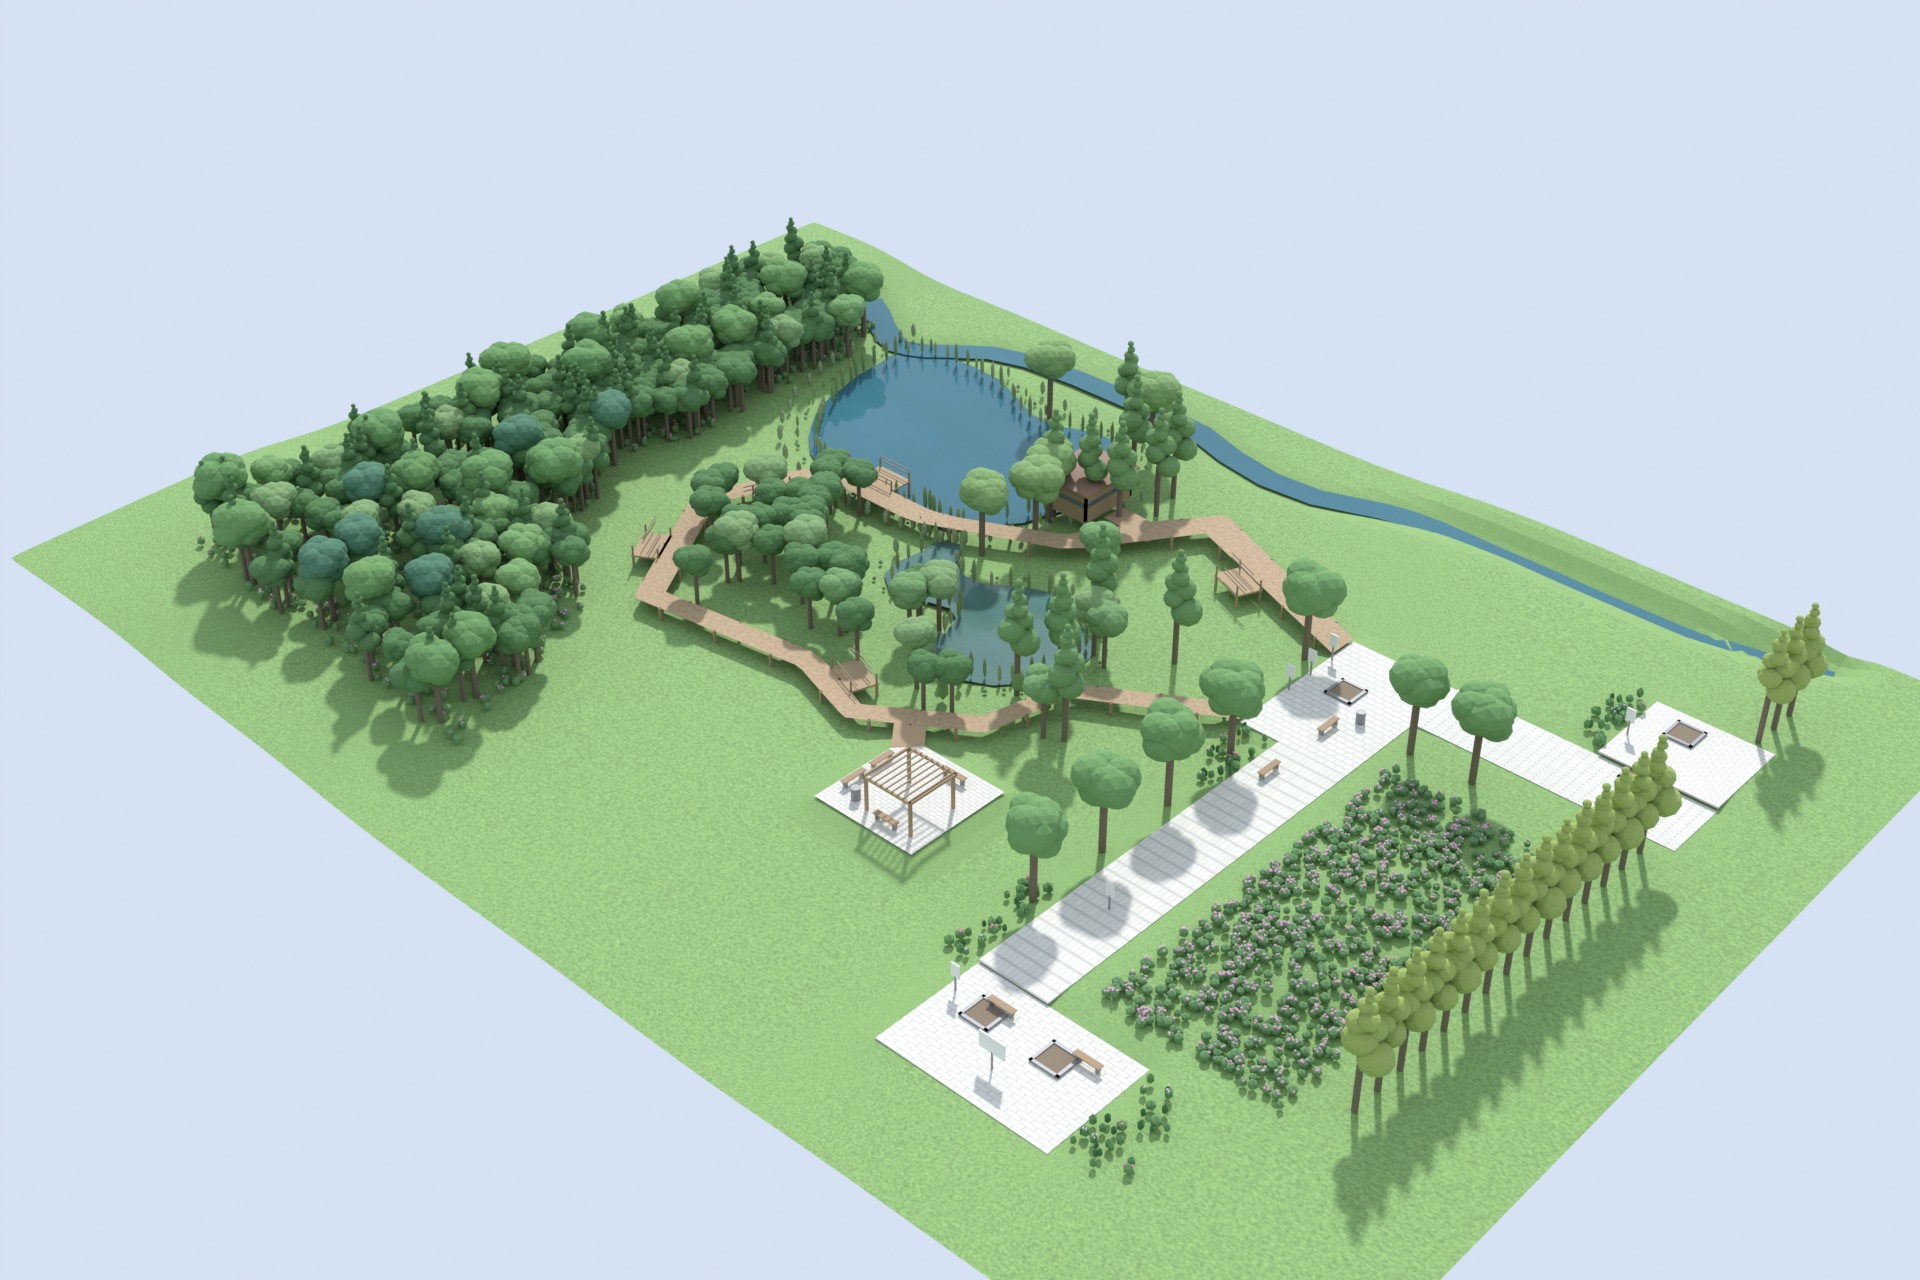
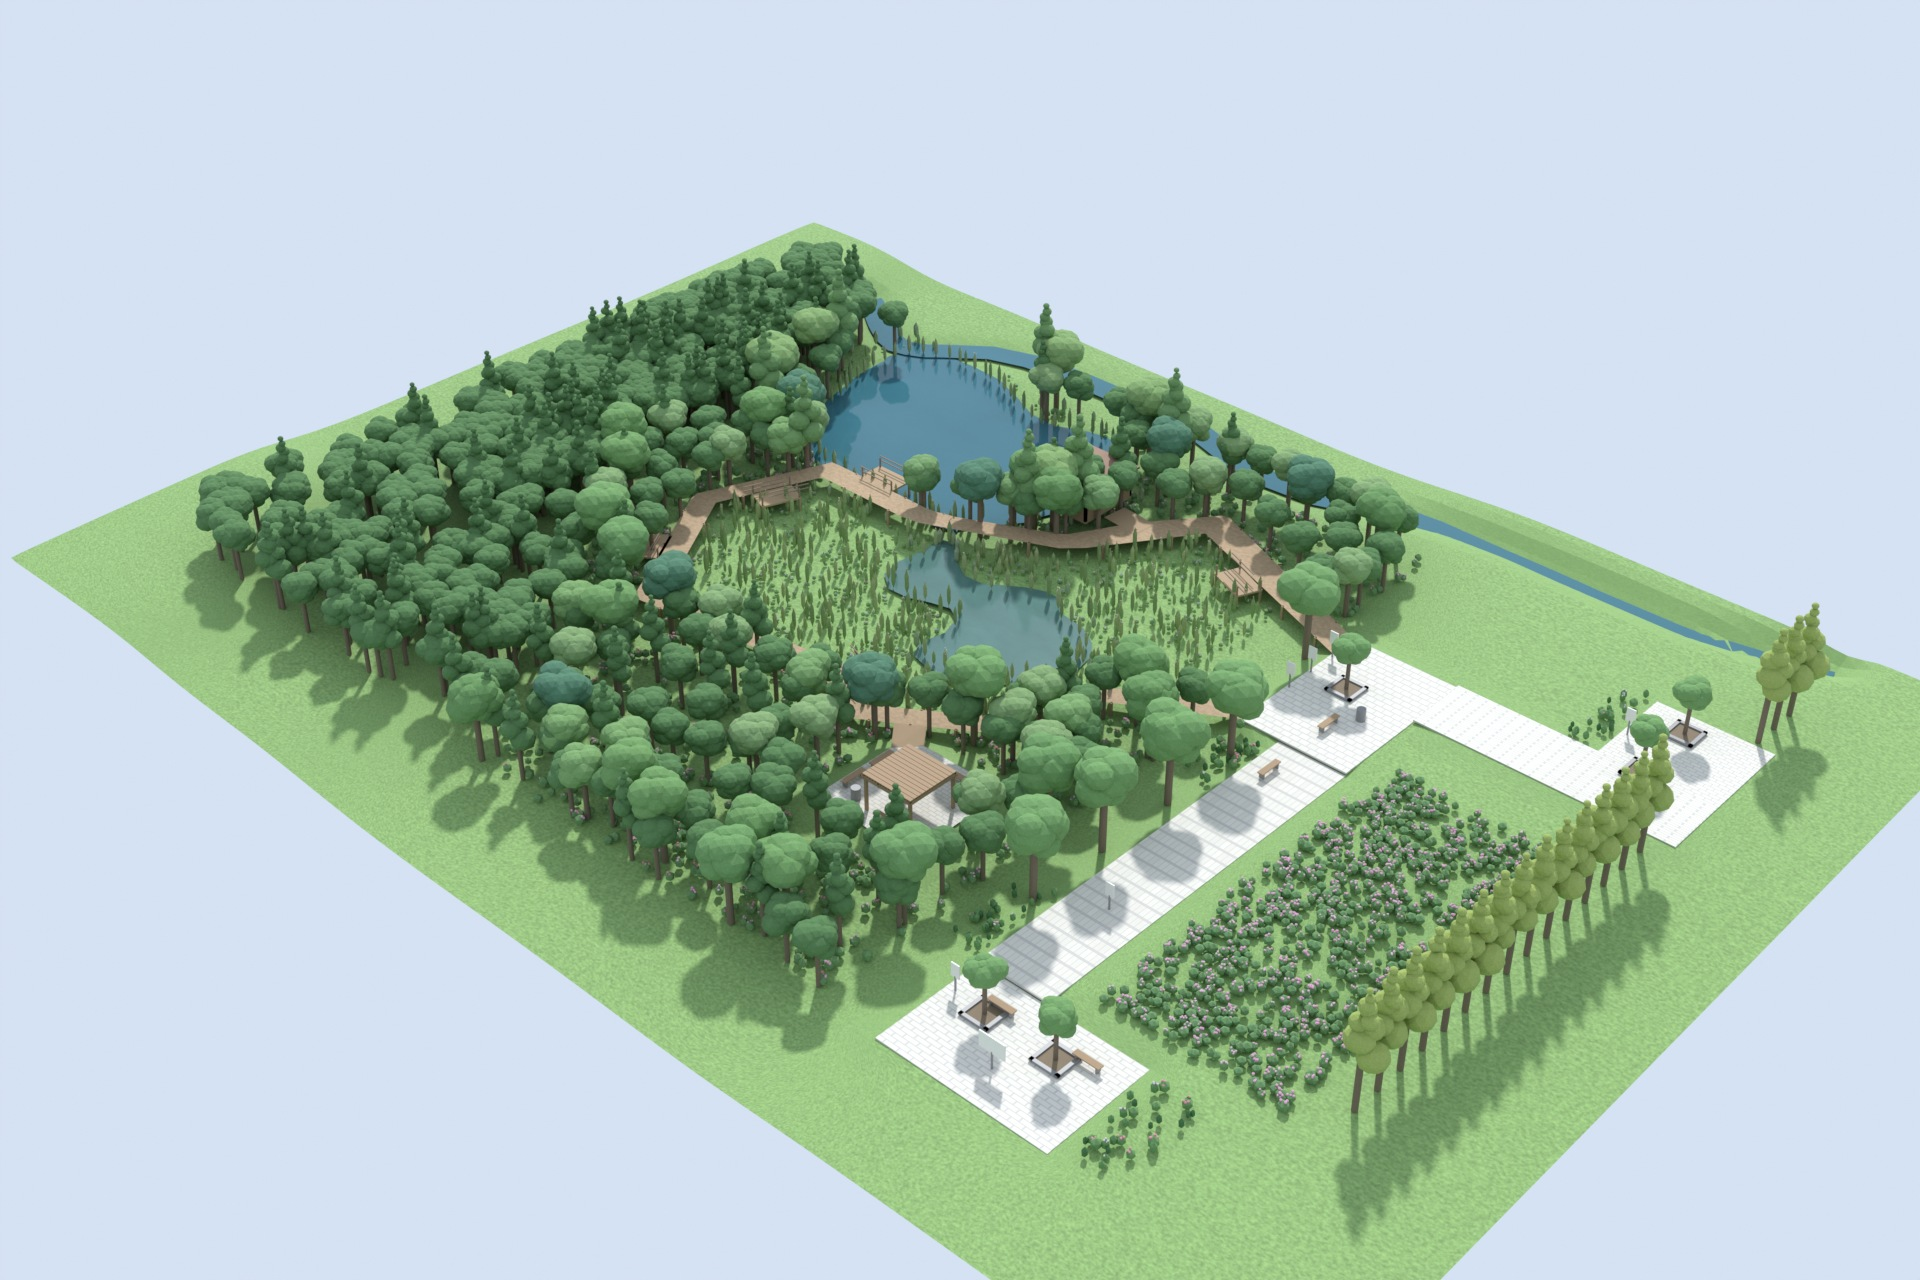
401 탭 — 구역·시설물을 고친 모형으로 갱신
습지지구(루프 안)는 초본류만, 산림지구(루프 바깥)에 교목·관목.
수목보호대에 느티나무를 심되 사각 틀이 보이게 수관을 줄였고,
퍼걸러 지붕을 판재로 바꿔 그늘을 만들었다. 실사 조감도도 다시 만들었다.

축측도 27분 27초 · 평면도 16분 38초 · 조감도 4분 4초.

Changed region(s): [[0.0938, 0.1875, 0.9062, 0.9375]]

diff --git a/_ls_drawing_refs/401_입체평면도/content.md b/_ls_drawing_refs/401_입체평면도/content.md
@@ -277,3 +277,31 @@
 - 보행로(소형고압블럭포장) 위에 관목을 심어 두었습니다. **도면의 빗금을 식재지로 잘못
   읽은 것**인데, 바로 옆에 '소형고압블럭포장'이라 적혀 있습니다. 걷어냈습니다
 
+### 식재 구역은 도면 라벨 자리로 잡습니다
+
+처음에 **구역을 거꾸로** 잡았습니다. 도면의 라벨 자리를 재면 이렇습니다.
+
+| 라벨 | 자리 |
+| --- | --- |
+| 기존수림 | 서쪽 |
+| 저수지구 | 북쪽 못 |
+| **습지지구** | **관찰로 루프 안** |
+| **산림지구** | **루프 바깥 남쪽** |
+
+즉 **루프 안은 초본류(갈대·부들·골풀·꽃창포·부처꽃)만**이고, 교목과 관목은
+**루프 바깥**에 들어갑니다. 반대로 심어 놓으면 "습지에 나무가 자라고 산림지구가 빈
+잔디"가 되어 설계 의도가 뒤집힙니다.
+
+### 시설물에서 고친 것 셋
+
+- **수목보호대에는 느티나무를 심습니다.** 빈 구멍이 아니라 녹음수를 담는 시설입니다.
+  다만 느티나무를 제 크기(수관 반지름 2.3m)로 두면 2×2m 틀을 통째로 덮어 **사각 틀이
+  안 보입니다.** 틀 모서리는 중심에서 1.41m 이므로 수관을 그보다 작게 줍니다
+- **휴게공간은 북서 모서리가 45° 로 잘린 오각형**이고, 그 잘린 변에서 관찰로로
+  2m 폭 **사선 진입로(데크)** 가 나갑니다
+- **퍼걸러 지붕은 판재**입니다. 살대만 깔면 햇빛이 다 새어 그늘이 안 집니다 —
+  0.45m 간격 살대는 85%, 촘촘히 깔아도 24%가 샙니다. 서까래 위에 판재를 얹고
+  5cm 틈만 남깁니다
+- **북동 진입광장과 동측 통로는 같은 72.2** 입니다. 다르게 두면 경계에 단차가 생겨
+  포장이 두 조각으로 갈라져 보이고, 경계에 걸친 수목보호대가 반쯤 묻힙니다
+
